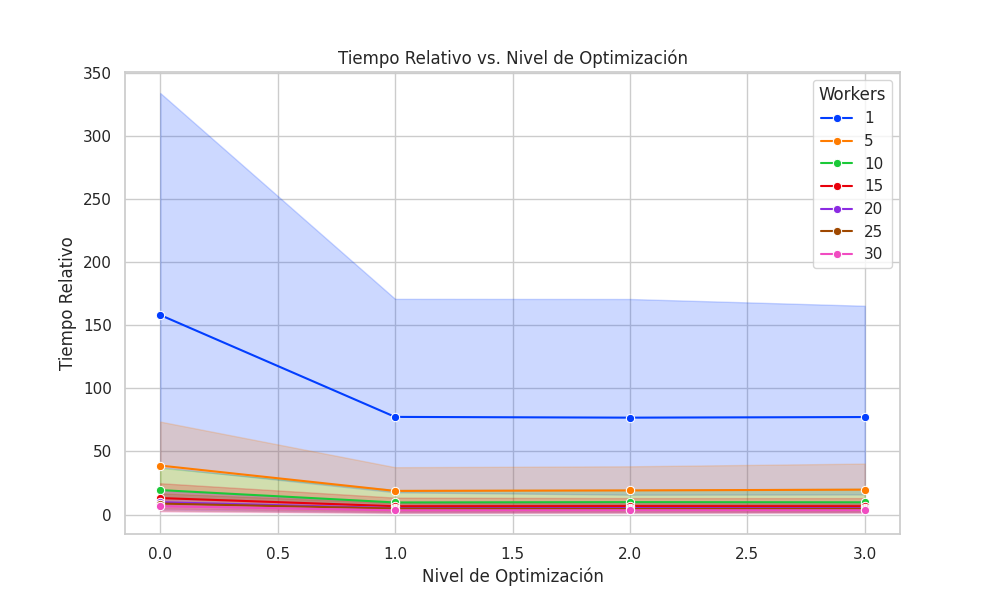
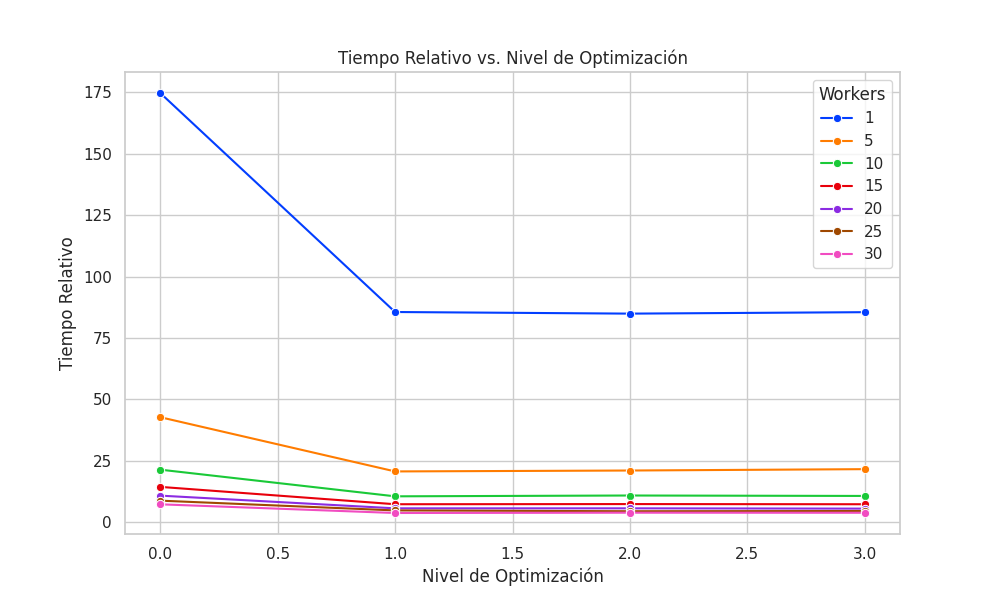
Removed 20 threads results and added some plots

diff --git a/src/main/c/jromp/mpi/examples/gemm/diagrams/diagrams.py b/src/main/c/jromp/mpi/examples/gemm/diagrams/diagrams.py
@@ -11,7 +11,8 @@ def plot_graphs(data):
 
     # 1. Tiempo vs. Número de Workers
     plt.figure(figsize=(10, 6))
-    sns.lineplot(data=data, x="workers", y="time", hue="opt_level", marker="o", palette=custom_palette, linewidth=lw)
+    sns.lineplot(data=data, x="workers", y="time", hue="opt_level", marker="o", palette=custom_palette, linewidth=lw,
+                 errorbar=None)
     plt.title("Tiempo vs. Número de Workers")
     plt.xlabel("Número de Workers")
     plt.ylabel("Tiempo (s)")
@@ -21,7 +22,8 @@ def plot_graphs(data):
 
     # 2. Tiempo vs. Total CPUs
     plt.figure(figsize=(10, 6))
-    sns.lineplot(data=data, x="total_cpus", y="time", hue="opt_level", marker="o", palette=custom_palette, linewidth=lw)
+    sns.lineplot(data=data, x="total_cpus", y="time", hue="opt_level", marker="o", palette=custom_palette, linewidth=lw,
+                 errorbar=None)
     plt.title("Tiempo vs. Total CPUs")
     plt.xlabel("Total CPUs")
     plt.ylabel("Tiempo (s)")
@@ -29,9 +31,46 @@ def plot_graphs(data):
     plt.savefig("time_vs_total_cpus.png")
     plt.close()
 
+    # 2.1 Tiempo vs. Total CPUs (log scale)
+    plt.figure(figsize=(10, 6))
+    sns.lineplot(data=data, x="total_cpus", y="time", hue="opt_level", marker="o", palette=custom_palette, linewidth=lw,
+                 errorbar=None)
+    plt.title("Tiempo vs. Total CPUs")
+    plt.xlabel("Total CPUs")
+    plt.ylabel("Tiempo (s)")
+    plt.legend(title="Nivel de Optimización")
+    plt.yscale("log")
+    plt.savefig("time_vs_total_cpus_log.png")
+    plt.close()
+
+    # 2.2 Tiempo vs. Total CPUs (total cpus limit 40), remove from data to aux variable and work with the dataframe
+    aux = data[data["total_cpus"] <= 40]
+    plt.figure(figsize=(10, 6))
+    sns.lineplot(data=aux, x="total_cpus", y="time", hue="opt_level", marker="o", palette=custom_palette, linewidth=lw,
+                 errorbar=None)
+    plt.title("Tiempo vs. Total CPUs (Total CPUs <= 40)")
+    plt.xlabel("Total CPUs")
+    plt.ylabel("Tiempo (s)")
+    plt.legend(title="Nivel de Optimización")
+    plt.savefig("time_vs_total_cpus_40.png")
+    plt.close()
+
+    # 2.3 Tiempo vs. Total CPUs (total cpus from 40 to last), remove from data to aux variable and work with the dataframe
+    aux = data[data["total_cpus"] > 40]
+    plt.figure(figsize=(10, 6))
+    sns.lineplot(data=aux, x="total_cpus", y="time", hue="opt_level", marker="o", palette=custom_palette, linewidth=lw,
+                 errorbar=None)
+    plt.title("Tiempo vs. Total CPUs (Total CPUs > 40)")
+    plt.xlabel("Total CPUs")
+    plt.ylabel("Tiempo (s)")
+    plt.legend(title="Nivel de Optimización")
+    plt.savefig("time_vs_total_cpus_40_last.png")
+    plt.close()
+
     # 3. Tiempo vs. Nivel de Optimización
     plt.figure(figsize=(10, 6))
-    sns.lineplot(data=data, x="opt_level", y="time", hue="workers", marker="o", palette=custom_palette, linewidth=lw)
+    sns.lineplot(data=data, x="opt_level", y="time", hue="workers", marker="o", palette=custom_palette, linewidth=lw,
+                 errorbar=None)
     plt.title("Tiempo vs. Nivel de Optimización")
     plt.xlabel("Nivel de Optimización")
     plt.ylabel("Tiempo (s)")
@@ -44,7 +83,7 @@ def plot_graphs(data):
     data["efficiency"] = base_time / (data["time"] * data["total_cpus"])
     plt.figure(figsize=(10, 6))
     sns.lineplot(data=data, x="total_cpus", y="efficiency", hue="opt_level", marker="o", palette=custom_palette,
-                 linewidth=lw)
+                 linewidth=lw, errorbar=None)
     plt.title("Eficiencia Escalable")
     plt.xlabel("Total CPUs")
     plt.ylabel("Eficiencia")
@@ -54,7 +93,8 @@ def plot_graphs(data):
 
     # 5. Comparación por Configuración de Threads
     plt.figure(figsize=(10, 6))
-    sns.lineplot(data=data, x="threads", y="time", hue="workers", marker="o", palette=custom_palette, linewidth=lw)
+    sns.lineplot(data=data, x="threads", y="time", hue="workers", marker="o", palette=custom_palette, linewidth=lw,
+                 errorbar=None)
     plt.title("Tiempo vs. Configuración de Threads")
     plt.xlabel("Número de Threads")
     plt.ylabel("Tiempo (s)")
@@ -77,7 +117,7 @@ def plot_graphs(data):
     data["relative_time"] = data["time"] / case_base
     plt.figure(figsize=(10, 6))
     sns.lineplot(data=data, x="opt_level", y="relative_time", hue="workers", marker="o", palette=custom_palette,
-                 linewidth=lw)
+                 linewidth=lw, errorbar=None)
     plt.title("Tiempo Relativo vs. Nivel de Optimización")
     plt.xlabel("Nivel de Optimización")
     plt.ylabel("Tiempo Relativo")
@@ -90,7 +130,7 @@ def plot_graphs(data):
     data["optimization_percentage"] = (data["total_cpus"] / max_cpus) * 100
     plt.figure(figsize=(10, 6))
     sns.lineplot(data=data, x="optimization_percentage", y="time", hue="opt_level", marker="o", palette=custom_palette,
-                 linewidth=lw)
+                 linewidth=lw, errorbar=None)
     plt.title("Tiempo vs. Porcentaje de Optimización")
     plt.xlabel("Porcentaje de Optimización (%)")
     plt.ylabel("Tiempo (s)")
@@ -103,7 +143,7 @@ def plot_graphs(data):
     data["adjusted_optimization_percentage"] = (data["total_cpus"] / max_cpus_opt3) * (data["opt_level"] / 3) * 100
     plt.figure(figsize=(10, 6))
     sns.lineplot(data=data, x="total_cpus", y="adjusted_optimization_percentage", hue="opt_level", marker="o",
-                 palette=custom_palette, linewidth=lw)
+                 palette=custom_palette, linewidth=lw, errorbar=None)
     plt.title("Porcentaje Ajustado de Optimización vs. Total CPUs")
     plt.xlabel("Total CPUs")
     plt.ylabel("Porcentaje Ajustado de Optimización (%)")
@@ -111,10 +151,23 @@ def plot_graphs(data):
     plt.savefig("adjusted_optimization_percentage_vs_total_cpus.png")
     plt.close()
 
+    # 10. Speedup vs. Total CPUs
+    sequential_time = data[data["total_cpus"] == 1 & (data["opt_level"] == 0)]["time"].min()
+    data["speedup"] = sequential_time / data["time"]
+    plt.figure(figsize=(10, 6))
+    sns.lineplot(data=data, x="total_cpus", y="speedup", hue="opt_level", marker="o", palette=custom_palette,
+                 linewidth=lw, errorbar=None)
+    plt.title("Speedup vs. Total CPUs")
+    plt.xlabel("Total CPUs")
+    plt.ylabel("Speedup")
+    plt.legend(title="Nivel de Optimización")
+    plt.savefig("speedup_vs_total_cpus.png")
+    plt.close()
+
 
 if __name__ == '__main__':
-    # Configurar Matplotlib para usar el backend "Agg"
-    plt.switch_backend('Agg')
+    # Configurar Matplotlib para usar el backend "tkagg" (Tkinter)
+    plt.switch_backend('tkagg')
 
     # Cargar datos
     data = pd.read_csv("../execution_configs_c.csv")
